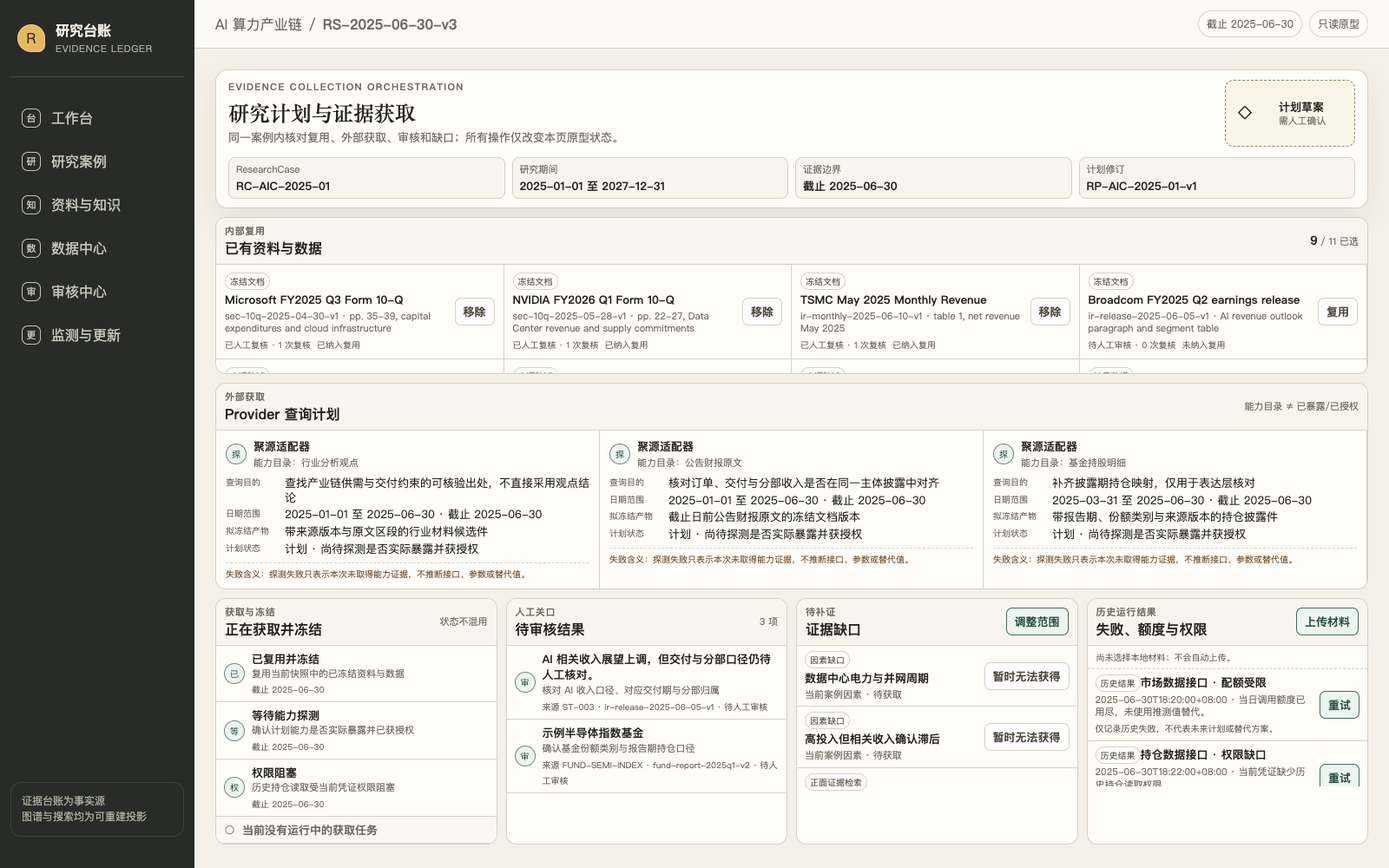
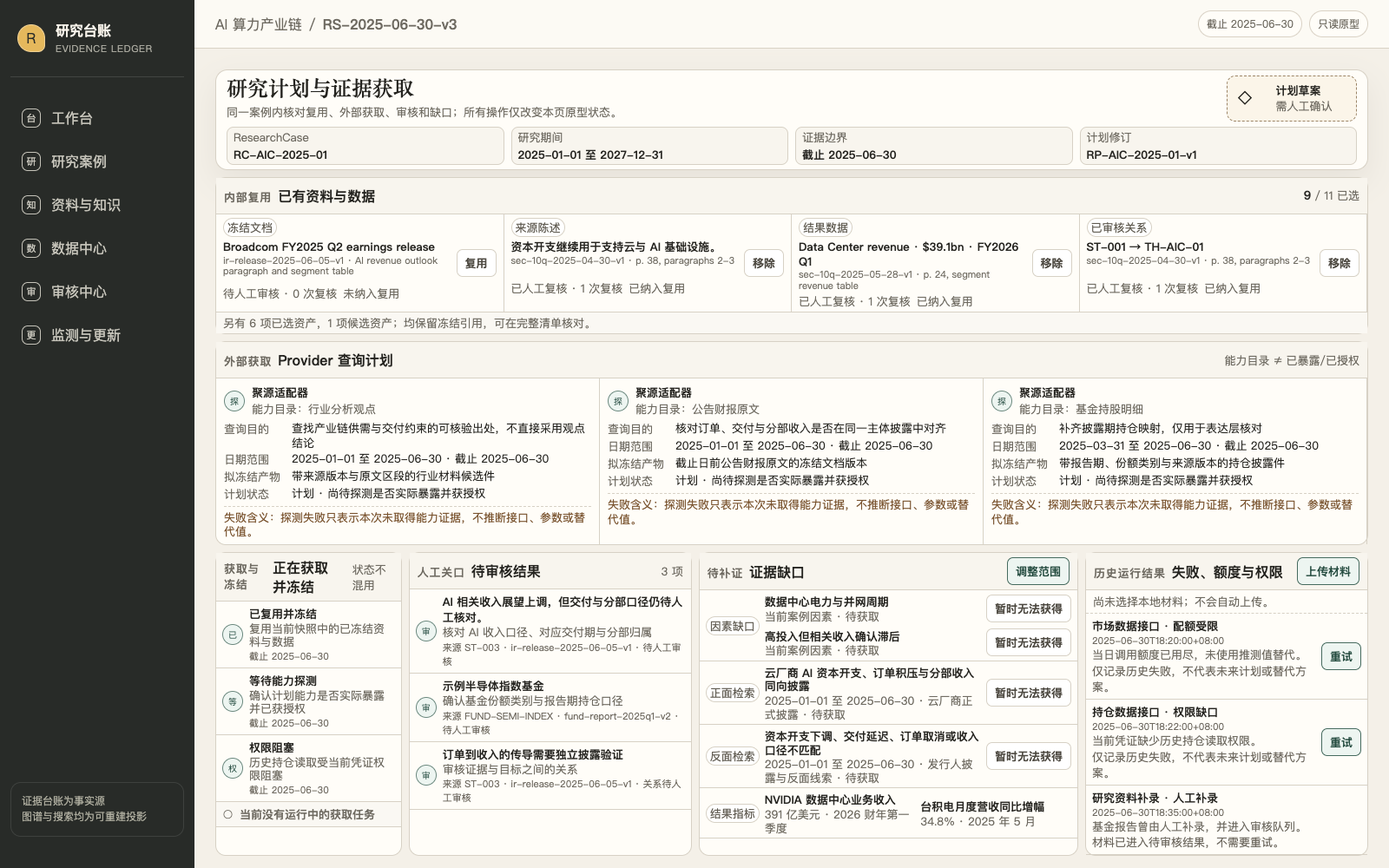
fix: keep research plan evidence readable

Changed region(s): [[0.1562, 0.093, 1.0, 0.992], [0.875, 0.093, 0.9688, 0.155]]

diff --git a/prototype/ui/app.js b/prototype/ui/app.js
@@ -860,13 +860,13 @@
     const view = planState.buildResearchPlanViewModel(data);
     const selectedCount = view.existingAssets.filter((asset) => asset.selected).length;
     const renderCollectionItems = (items, state, label) => items.map((item) => `
-      <li data-collection-state="${escapeHTML(state)}"><span class="plan-state-mark" aria-hidden="true">${escapeHTML(label.slice(0, 1))}</span><div><strong>${escapeHTML(label)}</strong><p>${escapeHTML(item.label)}</p><small>截止 ${escapeHTML(item.cutoff)}</small></div></li>
+      <li data-collection-state="${escapeHTML(state)}"><span class="plan-state-mark" aria-hidden="true">${escapeHTML(label.slice(0, 1))}</span><div><strong data-core-text>${escapeHTML(label)}</strong><p data-core-text>${escapeHTML(item.label)}</p><small data-secondary-text>截止 ${escapeHTML(item.cutoff)}</small></div></li>
     `).join("");
+    const renderGapItems = (items) => items.map((gap) => `<div class="gap-entry" data-gap-id="${escapeHTML(gap.id)}"><div><strong data-core-text>${escapeHTML(gap.label)}</strong><p data-core-text>${escapeHTML(gap.scope)} · <span data-gap-status>待获取</span></p></div><button type="button" class="plan-button quiet" data-toggle-gap aria-pressed="false">暂时无法获得</button></div>`).join("");
     return `
       <section class="screen research-plan-screen" data-screen="plan">
         <header class="plan-case-header" data-plan-case-header>
           <div>
-            <p class="eyebrow">Evidence collection orchestration</p>
             <h1>研究计划与证据获取</h1>
             <p class="lede">同一案例内核对复用、外部获取、审核和缺口；所有操作仅改变本页原型状态。</p>
           </div>
@@ -882,14 +882,15 @@
         <div class="plan-regions">
           <section class="plan-region assets-region" data-plan-region="assets" aria-labelledby="plan-assets-title">
             <header><div><p class="section-kicker">内部复用</p><h2 id="plan-assets-title">已有资料与数据</h2></div><p><strong data-reuse-count>${selectedCount}</strong> / ${view.existingAssets.length} 已选</p></header>
-            <div class="asset-list">
-              ${view.existingAssets.map((asset) => `
+            <div class="asset-list" data-hidden-selected-count="${view.hiddenSelectedAssetCount}">
+              ${view.representativeAssets.map((asset) => `
                 <article class="asset-row" data-asset-id="${escapeHTML(asset.id)}">
-                  <div><span class="type-label">${escapeHTML(displayLabel(PRESENTATION.assetKinds, asset.kind, "冻结资产"))}</span><strong>${escapeHTML(asset.label)}</strong><p>${escapeHTML(asset.sourceVersion)} · ${escapeHTML(asset.sourceSpan)}</p></div>
-                  <div class="asset-review"><span>${escapeHTML(displayLabel(PRESENTATION.reviewStatesExtended, asset.reviewState, "状态待确认"))} · ${asset.reviewCount} 次复核</span><span data-reuse-status>${asset.selected ? "已纳入复用" : "未纳入复用"}</span></div>
+                  <div><span class="type-label">${escapeHTML(displayLabel(PRESENTATION.assetKinds, asset.kind, "冻结资产"))}</span><strong data-core-text>${escapeHTML(asset.label)}</strong><p data-secondary-text>${escapeHTML(asset.sourceVersion)} · ${escapeHTML(asset.sourceSpan)}</p></div>
+                  <div class="asset-review"><span data-core-text>${escapeHTML(displayLabel(PRESENTATION.reviewStatesExtended, asset.reviewState, "状态待确认"))} · ${asset.reviewCount} 次复核</span><span data-core-text data-reuse-status>${asset.selected ? "已纳入复用" : "未纳入复用"}</span></div>
                   <button type="button" class="plan-button quiet" data-toggle-asset aria-pressed="${asset.selected}">${asset.selected ? "移除" : "复用"}</button>
                 </article>
               `).join("")}
+              <p class="asset-aggregate" data-core-text>另有 ${view.hiddenSelectedAssetCount} 项已选资产${view.hiddenCandidateAssetCount ? `，${view.hiddenCandidateAssetCount} 项候选资产` : ""}；均保留冻结引用，可在完整清单核对。</p>
             </div>
           </section>
 
@@ -898,9 +899,9 @@
             <div class="provider-plan-list">
               ${view.providerQueries.map((query) => `
                 <article class="provider-plan-row">
-                  <div class="provider-title"><span class="plan-state-mark" aria-hidden="true">探</span><div><strong>${escapeHTML(displayLabel(PRESENTATION.providerNames, query.provider, "外部数据适配器"))}适配器</strong><p>能力目录：${escapeHTML(displayLabel(PRESENTATION.providerCapabilities, query.capability, "待分类能力"))}</p></div></div>
-                  <dl><div><dt>查询目的</dt><dd>${escapeHTML(query.purpose)}</dd></div><div><dt>日期范围</dt><dd>${escapeHTML(query.dateScope.start)} 至 ${escapeHTML(query.dateScope.end)} · 截止 ${escapeHTML(query.cutoff)}</dd></div><div><dt>拟冻结产物</dt><dd>${escapeHTML(query.intendedArtifact)}</dd></div><div><dt>计划状态</dt><dd>${escapeHTML(displayLabel(PRESENTATION.planStates, query.status, "待规划"))} · ${escapeHTML(displayLabel(PRESENTATION.exposureStates, query.exposureStatus, "能力状态待确认"))}</dd></div></dl>
-                  <p class="provider-meaning">失败含义：探测失败只表示本次未取得能力证据，不推断接口、参数或替代值。</p>
+                  <div class="provider-title"><span class="plan-state-mark" aria-hidden="true">探</span><div><strong data-core-text>${escapeHTML(displayLabel(PRESENTATION.providerNames, query.provider, "外部数据适配器"))}适配器</strong><p data-core-text>能力目录：${escapeHTML(displayLabel(PRESENTATION.providerCapabilities, query.capability, "待分类能力"))}</p></div></div>
+                  <dl><div><dt data-core-text>查询目的</dt><dd data-core-text>${escapeHTML(query.purpose)}</dd></div><div><dt data-core-text>日期范围</dt><dd data-core-text>${escapeHTML(query.dateScope.start)} 至 ${escapeHTML(query.dateScope.end)} · 截止 ${escapeHTML(query.cutoff)}</dd></div><div><dt data-core-text>拟冻结产物</dt><dd data-core-text>${escapeHTML(query.intendedArtifact)}</dd></div><div><dt data-core-text>计划状态</dt><dd data-core-text>${escapeHTML(displayLabel(PRESENTATION.planStates, query.status, "待规划"))} · ${escapeHTML(displayLabel(PRESENTATION.exposureStates, query.exposureStatus, "能力状态待确认"))}</dd></div></dl>
+                  <p class="provider-meaning" data-core-text>失败含义：探测失败只表示本次未取得能力证据，不推断接口、参数或替代值。</p>
                 </article>
               `).join("")}
             </div>
@@ -912,29 +913,32 @@
               ${renderCollectionItems(view.collection.reused, "reused_frozen", "已复用并冻结")}
               ${renderCollectionItems(view.collection.awaitingProbe, "awaiting_capability_probe", "等待能力探测")}
               ${renderCollectionItems(view.collection.blocked, "blocked_permission", "权限阻塞")}
-              ${view.collection.running.length ? renderCollectionItems(view.collection.running, "running", "正在获取") : '<li class="empty-running" data-empty-running><span aria-hidden="true">○</span><strong>当前没有运行中的获取任务</strong></li>'}
+              ${view.collection.running.length ? renderCollectionItems(view.collection.running, "running", "正在获取") : '<li class="empty-running" data-empty-running><span aria-hidden="true">○</span><strong data-core-text>当前没有运行中的获取任务</strong></li>'}
             </ul>
           </section>
 
           <section class="plan-region" data-plan-region="pending" aria-labelledby="plan-pending-title">
             <header><div><p class="section-kicker">人工关口</p><h2 id="plan-pending-title">待审核结果</h2></div><p>${view.pendingResults.length} 项</p></header>
             <div class="compact-result-list">
-              ${view.pendingResults.map((item) => `<article><span class="plan-state-mark" aria-hidden="true">审</span><div><strong>${escapeHTML(item.targetLabel)}</strong><p>${escapeHTML(item.task)}</p><small>来源 ${escapeHTML(item.sourceId)} · ${escapeHTML(item.sourceVersion)} · ${escapeHTML(item.reviewLabel)}</small></div></article>`).join("")}
+              ${view.pendingResults.map((item) => `<article><span class="plan-state-mark" aria-hidden="true">审</span><div><strong data-core-text>${escapeHTML(item.targetLabel)}</strong><p data-core-text>${escapeHTML(item.task)}</p><small data-secondary-text>来源 ${escapeHTML(item.sourceId)} · ${escapeHTML(item.sourceVersion)} · ${escapeHTML(item.reviewLabel)}</small></div></article>`).join("")}
             </div>
           </section>
 
           <section class="plan-region" data-plan-region="gaps" aria-labelledby="plan-gaps-title">
             <header><div><p class="section-kicker">待补证</p><h2 id="plan-gaps-title">证据缺口</h2></div><a class="plan-text-link" href="?screen=new-research">调整范围</a></header>
             <div class="gap-list">
-              ${view.gaps.map((gap) => `<article data-gap-id="${escapeHTML(gap.id)}"><div><span class="type-label">${escapeHTML(displayLabel(PRESENTATION.gapTypes, gap.type, "证据缺口"))}</span><strong>${escapeHTML(gap.label)}</strong><p>${escapeHTML(gap.scope)} · <span data-gap-status>待获取</span></p></div><button type="button" class="plan-button quiet" data-toggle-gap aria-pressed="false">暂时无法获得</button></article>`).join("")}
+              <article><span class="type-label">因素缺口</span><div class="gap-group">${renderGapItems(view.gaps.filter((gap) => gap.type === "factor"))}</div></article>
+              <article><span class="type-label">正面检索</span><div class="gap-group">${renderGapItems(view.gaps.filter((gap) => gap.type === "positive"))}</div></article>
+              <article><span class="type-label">反面检索</span><div class="gap-group">${renderGapItems(view.gaps.filter((gap) => gap.type === "negative"))}</div></article>
+              <article class="metric-summary"><span class="type-label">结果指标</span>${view.resultMetrics.map((metric) => `<div><strong data-core-text>${escapeHTML(displayLabel(PRESENTATION.planMetricNames, metric.name, "关键业务指标"))}</strong><p><span data-core-text>${escapeHTML(displayLabel(PRESENTATION.metricValues, metric.value, metric.value))}</span> · <span data-core-text>${escapeHTML(displayLabel(PRESENTATION.metricPeriods, metric.period, metric.period))}</span></p></div>`).join("")}</article>
             </div>
           </section>
 
           <section class="plan-region" data-plan-region="failures" aria-labelledby="plan-failures-title">
             <header><div><p class="section-kicker">历史运行结果</p><h2 id="plan-failures-title">失败、额度与权限</h2></div><label class="plan-upload"><span>上传材料</span><input type="file" accept=".pdf,.doc,.docx,.xlsx,.csv,.txt"></label></header>
-            <p class="upload-status" data-upload-status>尚未选择本地材料；不会自动上传。</p>
+            <p class="upload-status" data-core-text data-upload-status>尚未选择本地材料；不会自动上传。</p>
             <div class="failure-list">
-              ${[...view.failures, ...view.manualUploads].map((run) => `<article data-provider-run="${escapeHTML(run.id)}" data-provider-outcome="${escapeHTML(run.outcome)}"><div><span class="type-label">历史结果</span><strong>${escapeHTML(displayLabel(PRESENTATION.providerNames, run.provider, "外部数据接口"))} · ${escapeHTML(displayLabel(PRESENTATION.providerOutcomes, run.outcome, "运行异常"))}</strong><p>${escapeHTML(run.observedAt)} · ${escapeHTML(displayLabel(PRESENTATION.providerDetails, run.detail, "该次历史运行未形成可复用结果，未推断替代值。"))}</p><small data-retry-status>${run.outcome === "manual_upload" ? "材料已进入待审核结果，不需要重试。" : "仅记录历史失败，不代表未来计划或替代方案。"}</small></div>${run.outcome === "manual_upload" ? "" : '<button type="button" class="plan-button" data-retry-run>重试</button>'}</article>`).join("")}
+              ${[...view.failures, ...view.manualUploads].map((run) => `<article data-provider-run="${escapeHTML(run.id)}" data-provider-outcome="${escapeHTML(run.outcome)}"><div><strong data-core-text>${escapeHTML(displayLabel(PRESENTATION.providerNames, run.provider, "外部数据接口"))} · ${escapeHTML(displayLabel(PRESENTATION.providerOutcomes, run.outcome, "运行异常"))}</strong><time data-secondary-text>${escapeHTML(run.observedAt)}</time><p data-core-text>${escapeHTML(displayLabel(PRESENTATION.providerDetails, run.detail, "该次历史运行未形成可复用结果，未推断替代值。"))}</p><small data-core-text data-retry-status>${run.outcome === "manual_upload" ? "材料已进入待审核结果，不需要重试。" : "仅记录历史失败，不代表未来计划或替代方案。"}</small></div>${run.outcome === "manual_upload" ? "" : '<button type="button" class="plan-button" data-retry-run>重试</button>'}</article>`).join("")}
             </div>
           </section>
         </div>
@@ -954,7 +958,8 @@
         assetButton.textContent = selected ? "移除" : "复用";
         const row = assetButton.closest("[data-asset-id]");
         row.querySelector("[data-reuse-status]").textContent = selected ? "已纳入复用" : "未纳入复用";
-        root.querySelector("[data-reuse-count]").textContent = root.querySelectorAll('[data-toggle-asset][aria-pressed="true"]').length;
+        const hiddenSelectedCount = Number(root.querySelector(".asset-list").dataset.hiddenSelectedCount);
+        root.querySelector("[data-reuse-count]").textContent = hiddenSelectedCount + root.querySelectorAll('[data-toggle-asset][aria-pressed="true"]').length;
         announce(`${row.dataset.assetId}${selected ? "已纳入" : "已移出"}本地复用选择`);
         return;
       }

diff --git a/prototype/ui/styles.css b/prototype/ui/styles.css
@@ -76,8 +76,8 @@
   .plan-case-header {
     display: grid;
     grid-template-columns: minmax(0, 1fr) auto;
-    gap: 8px 24px;
-    padding: 11px 14px 10px;
+    gap: 4px 20px;
+    padding: 6px 12px 5px;
     border: 1px solid var(--plan-line);
     border-radius: 14px;
     background: var(--paper);
@@ -102,44 +102,44 @@
     align-content: center;
     gap: 0 8px;
     min-width: 150px;
-    padding: 9px 12px;
+    padding: 6px 10px;
     border: 1px dashed #9b8466;
     border-radius: 10px;
     background: #fbf5e9;
   }
 
   .plan-draft-state span { grid-row: 1 / 3; align-self: center; font-size: 20px; }
-  .plan-draft-state small { color: var(--muted-text); }
+  .plan-draft-state small { color: var(--muted-text); font-size: 13px; }
 
   .plan-case-facts {
     grid-column: 1 / -1;
     display: grid;
     grid-template-columns: repeat(4, minmax(0, 1fr));
     gap: 8px;
-    margin: 4px 0 0;
+    margin: 2px 0 0;
   }
 
   .plan-case-facts div {
     min-width: 0;
-    padding: 5px 8px;
+    padding: 2px 7px;
     border: 1px solid var(--plan-line);
     border-radius: 8px;
     background: var(--plan-soft);
   }
 
-  .plan-case-facts dt { color: var(--muted-text); font-size: 11px; }
+  .plan-case-facts dt { color: var(--muted-text); font-size: 13px; }
   .plan-case-facts dd { overflow-wrap: anywhere; margin: 2px 0 0; font-weight: 650; }
 
   .plan-regions {
     display: grid;
     grid-template-columns: repeat(12, minmax(0, 1fr));
-    gap: 10px;
-    margin-top: 10px;
+    gap: 8px;
+    margin-top: 8px;
   }
 
   .plan-region {
     min-width: 0;
-    overflow: hidden;
+    overflow: visible;
     border: 1px solid var(--plan-line);
     border-radius: 12px;
     background: var(--paper);
@@ -147,30 +147,34 @@
 
   .plan-region > header {
     display: flex;
-    min-height: 46px;
+    min-height: 42px;
     align-items: center;
     justify-content: space-between;
     gap: 12px;
-    padding: 7px 10px;
+    padding: 5px 9px;
     border-bottom: 1px solid var(--plan-line);
     background: var(--plan-soft);
   }
 
   .plan-region > header h2 { margin: 1px 0 0; font-size: 16px; }
-  .plan-region > header p { margin: 0; color: var(--muted-text); font-size: 11px; }
+  .plan-region > header p { margin: 0; color: var(--muted-text); font-size: 13px; }
   .plan-region > header p strong { color: var(--ink); font-size: 14px; }
+  .plan-region > header > div:first-child { display: flex; gap: 7px; align-items: baseline; }
   .section-kicker { letter-spacing: .06em; text-transform: uppercase; }
 
   .assets-region,
   .providers-region { grid-column: span 12; }
 
   .plan-region:not(.assets-region, .providers-region) { grid-column: span 3; }
+  .plan-region[data-plan-region="collection"] { grid-column: span 2; }
+  .plan-region[data-plan-region="pending"] { grid-column: span 3; }
+  .plan-region[data-plan-region="gaps"] { grid-column: span 4; }
+  .plan-region[data-plan-region="failures"] { grid-column: span 3; }
 
   .asset-list {
     display: grid;
     grid-template-columns: repeat(4, minmax(0, 1fr));
-    max-height: 125px;
-    overflow: auto;
+    overflow: visible;
   }
 
   .asset-row {
@@ -179,44 +183,43 @@
     gap: 4px 8px;
     align-items: start;
     min-width: 0;
-    padding: 9px 10px;
+    padding: 4px 8px;
     border-right: 1px solid var(--plan-line);
     border-bottom: 1px solid var(--plan-line);
   }
 
   .asset-row strong,
   .gap-list strong { display: block; margin-top: 3px; line-height: 1.3; }
-  .asset-row p,
-  .gap-list p { overflow-wrap: anywhere; margin: 3px 0 0; color: var(--muted-text); font-size: 11px; line-height: 1.35; }
-  .asset-review { grid-column: 1; display: flex; gap: 7px; color: var(--muted-text); font-size: 10px; }
+  .asset-row p { overflow-wrap: anywhere; margin: 1px 0 0; color: var(--muted-text); font-size: 11px; line-height: 1.15; }
+  .asset-review { grid-column: 1; display: flex; gap: 7px; color: var(--muted-text); font-size: 13px; line-height: 1.2; }
   .asset-row .plan-button { grid-column: 2; grid-row: 1 / 3; align-self: center; }
+  .asset-aggregate { grid-column: 1 / -1; margin: 0; padding: 3px 8px; color: var(--muted-text); font-size: 13px; background: #faf8f3; }
 
   .type-label {
     display: inline-block;
-    padding: 2px 5px;
+    padding: 1px 4px;
     border: 1px solid var(--plan-line);
     border-radius: 999px;
     color: #5f5a50;
-    font-size: 10px;
+    font-size: 13px;
     background: #fff;
   }
 
   .provider-plan-list {
     display: grid;
     grid-template-columns: repeat(3, minmax(0, 1fr));
-    max-height: 184px;
-    overflow: auto;
+    overflow: visible;
   }
 
-  .provider-plan-row { min-width: 0; padding: 9px 11px; border-right: 1px solid var(--plan-line); }
+  .provider-plan-row { min-width: 0; padding: 7px 9px; border-right: 1px solid var(--plan-line); }
   .provider-title { display: flex; gap: 8px; align-items: center; }
-  .provider-title p { margin: 2px 0 0; color: var(--muted-text); font-size: 11px; }
+  .provider-title p { margin: 1px 0 0; color: var(--muted-text); font-size: 13px; }
   .plan-state-mark { display: grid; width: 24px; height: 24px; flex: 0 0 auto; place-items: center; border: 1px solid #6d8a80; border-radius: 50%; color: #2d5348; font-size: 10px; background: #edf5f1; }
-  .provider-plan-row dl { display: grid; gap: 3px; margin: 7px 0 0; }
-  .provider-plan-row dl div { display: grid; grid-template-columns: 62px minmax(0, 1fr); gap: 6px; }
-  .provider-plan-row dt { color: var(--muted-text); font-size: 10px; }
-  .provider-plan-row dd { overflow-wrap: anywhere; margin: 0; line-height: 1.3; }
-  .provider-meaning { margin: 7px 0 0; padding-top: 6px; border-top: 1px dashed var(--plan-line); color: #7a5430; font-size: 10px; line-height: 1.35; }
+  .provider-plan-row dl { display: grid; gap: 2px; margin: 5px 0 0; }
+  .provider-plan-row dl div { display: grid; grid-template-columns: 72px minmax(0, 1fr); gap: 6px; }
+  .provider-plan-row dt { color: var(--muted-text); font-size: 13px; white-space: nowrap; }
+  .provider-plan-row dd { overflow-wrap: anywhere; margin: 0; font-size: 13px; line-height: 1.25; }
+  .provider-meaning { margin: 5px 0 0; padding-top: 4px; border-top: 1px dashed var(--plan-line); color: #7a5430; font-size: 13px; line-height: 1.25; }
 
   .collection-list,
   .compact-result-list,
@@ -225,22 +228,34 @@
   .collection-list li,
   .compact-result-list article,
   .gap-list article,
-  .failure-list article { display: flex; gap: 8px; align-items: center; padding: 6px 9px; border-bottom: 1px solid var(--plan-line); }
+  .failure-list article { display: flex; gap: 7px; align-items: center; padding: 5px 7px; border-bottom: 1px solid var(--plan-line); }
   .collection-list p,
   .compact-result-list p,
-  .failure-list p { margin: 2px 0; color: var(--muted-text); font-size: 11px; line-height: 1.3; }
+  .failure-list p { margin: 1px 0; color: var(--muted-text); font-size: 13px; line-height: 1.2; }
   .collection-list small,
   .compact-result-list small,
-  .failure-list small { color: #6c675e; font-size: 10px; }
+  .failure-list time { display: block; color: #6c675e; font-size: 11px; }
+  .collection-list small,
+  .compact-result-list small { color: #6c675e; font-size: 11px; }
+  .failure-list small { color: #6c675e; font-size: 13px; line-height: 1.2; }
   .empty-running { color: var(--muted-text); background: #faf8f3; }
-  .collection-list p { line-height: 1.15; }
-  .compact-result-list { max-height: 170px; overflow: auto; }
+  .collection-list p { font-size: 13px; line-height: 1.15; }
+  .compact-result-list { overflow: visible; }
   .compact-result-list article > div,
   .failure-list article > div { min-width: 0; }
 
-  .gap-list { max-height: 170px; overflow: auto; }
-  .gap-list article { justify-content: space-between; }
-  .gap-list article > div { min-width: 0; }
+  .gap-list { overflow: visible; }
+  .gap-list article { display: grid; grid-template-columns: 62px minmax(0, 1fr); gap: 6px; align-items: center; }
+  .gap-list article { padding-block: 3px; }
+  .gap-group { display: grid; min-width: 0; gap: 4px; }
+  .gap-entry { display: grid; grid-template-columns: minmax(0, 1fr) auto; min-width: 0; gap: 5px; align-items: center; }
+  .gap-entry > div { min-width: 0; }
+  .gap-entry strong { display: block; font-size: 13px; line-height: 1.2; }
+  .gap-entry p,
+  .metric-summary p { margin: 1px 0 0; color: var(--muted-text); font-size: 13px; line-height: 1.2; }
+  .metric-summary > div { min-width: 0; }
+  .metric-summary strong { font-size: 13px; line-height: 1.2; }
+  .gap-list article.metric-summary { grid-template-columns: 62px repeat(2, minmax(0, 1fr)); }
 
   .plan-button,
   .plan-upload span,
@@ -269,8 +284,8 @@
   .plan-upload { position: relative; }
   .plan-upload input { position: absolute; width: 1px; height: 1px; overflow: hidden; opacity: 0; }
   .plan-upload span { display: inline-block; }
-  .upload-status { margin: 0; padding: 6px 10px; border-bottom: 1px dashed var(--plan-line); color: var(--muted-text); font-size: 10px; }
-  .failure-list { max-height: 135px; overflow: auto; }
+  .upload-status { margin: 0; padding: 4px 8px; border-bottom: 1px dashed var(--plan-line); color: var(--muted-text); font-size: 13px; }
+  .failure-list { overflow: visible; }
   .failure-list article { justify-content: space-between; }
 }
 
@@ -282,16 +297,24 @@
     .plan-regions { grid-template-columns: minmax(0, 1fr); }
     .assets-region,
     .providers-region,
-    .plan-region:not(.assets-region, .providers-region) { grid-column: 1; }
+    .plan-region:not(.assets-region, .providers-region),
+    .plan-region[data-plan-region] { grid-column: 1; }
     .asset-list,
-    .provider-plan-list { grid-template-columns: minmax(0, 1fr); max-height: none; overflow: visible; }
+    .provider-plan-list { grid-template-columns: minmax(0, 1fr); overflow: visible; }
     .asset-row,
     .provider-plan-row { border-right: 0; }
     .compact-result-list,
     .gap-list,
-    .failure-list { max-height: none; overflow: visible; }
+    .failure-list { overflow: visible; }
     .plan-region > header { align-items: flex-start; }
     .provider-plan-row dl div { grid-template-columns: minmax(0, 1fr); gap: 1px; }
+    .gap-list article { grid-template-columns: minmax(0, 1fr); }
+  }
+}
+
+@media (min-width: 701px) {
+  .work-area:has(.research-plan-screen) {
+    padding-bottom: 4px;
   }
 }
 

diff --git a/prototype/ui/research-plan-state.js b/prototype/ui/research-plan-state.js
@@ -88,6 +88,11 @@
           (groups[task.state] ??= []).push(task);
           return groups;
         }, {});
+    const existingAssets = buildExistingAssets(fixture);
+    const representativeAssetIds = ["DOC-BRCM-FY25Q2", "ST-001", "M-NVDA-DC-REV", "EL-001"];
+    const representativeAssets = representativeAssetIds.map((id) => existingAssets.find((asset) => asset.id === id));
+    const visibleSelectedCount = representativeAssets.filter((asset) => asset.selected).length;
+    const metrics = indexById(fixture.metrics);
     return {
       case: {
         id: fixture.case.id,
@@ -96,7 +101,10 @@
         cutoff: fixture.case.cutoff,
         revision: plan.revision,
       },
-      existingAssets: buildExistingAssets(fixture),
+      existingAssets,
+      representativeAssets,
+      hiddenSelectedAssetCount: existingAssets.filter((asset) => asset.selected).length - visibleSelectedCount,
+      hiddenCandidateAssetCount: existingAssets.filter((asset) => !asset.selected).length - representativeAssets.filter((asset) => !asset.selected).length,
       providerQueries: plan.plannedProviderQueries.map((query) => ({ ...query })),
       collection: {
         reused: collectionGroups.reused_frozen ?? [],
@@ -110,13 +118,13 @@
         ...plan.positiveEvidenceSearches.map((item) => ({ ...item, type: "positive" })),
         ...plan.negativeEvidenceSearches.map((item) => ({ ...item, type: "negative" })),
       ],
+      resultMetrics: plan.resultMetricIds.map((id) => ({ ...metrics.get(id) })),
       failures: fixture.providerRuns
         .filter((run) => failureOutcomes.has(run.outcome))
         .map((run) => ({ ...run })),
       manualUploads: fixture.providerRuns
         .filter((run) => run.outcome === "manual_upload")
         .map((run) => ({ ...run })),
-      resultMetricIds: [...plan.resultMetricIds],
     };
   }
 
